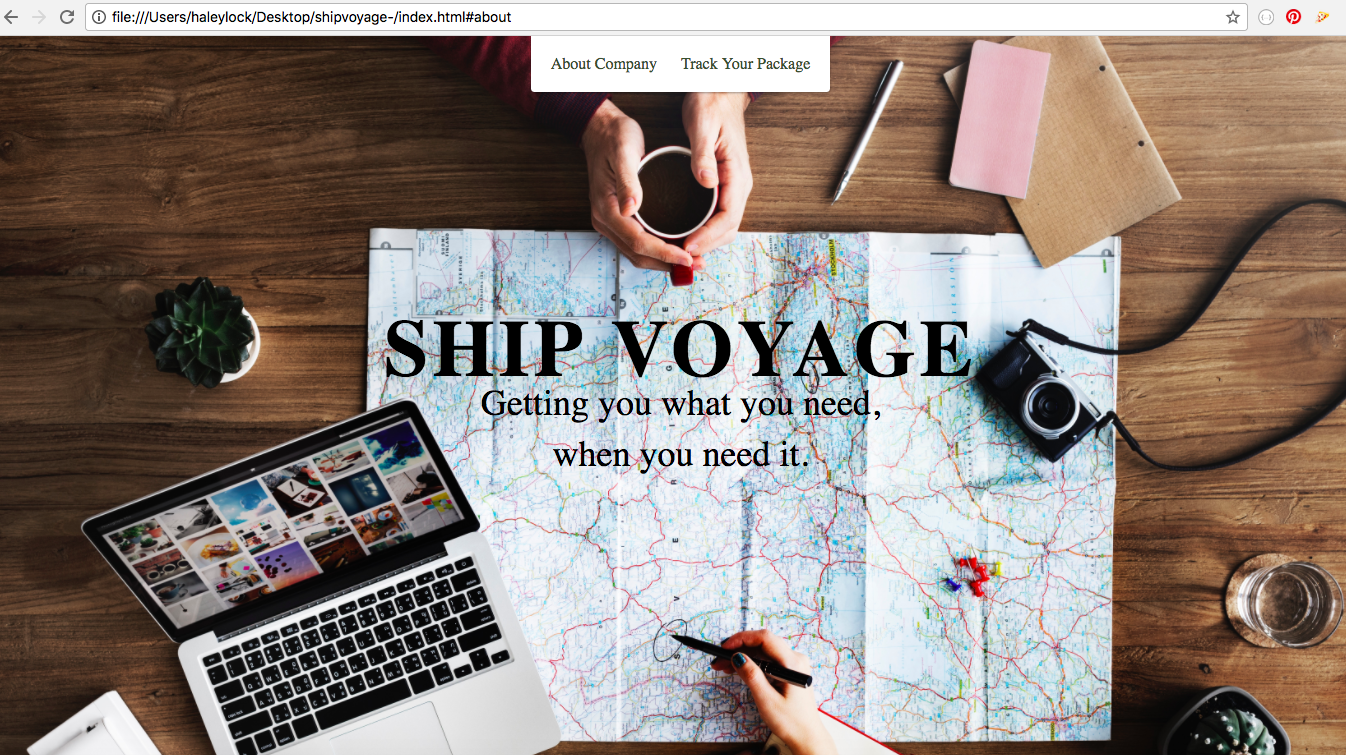
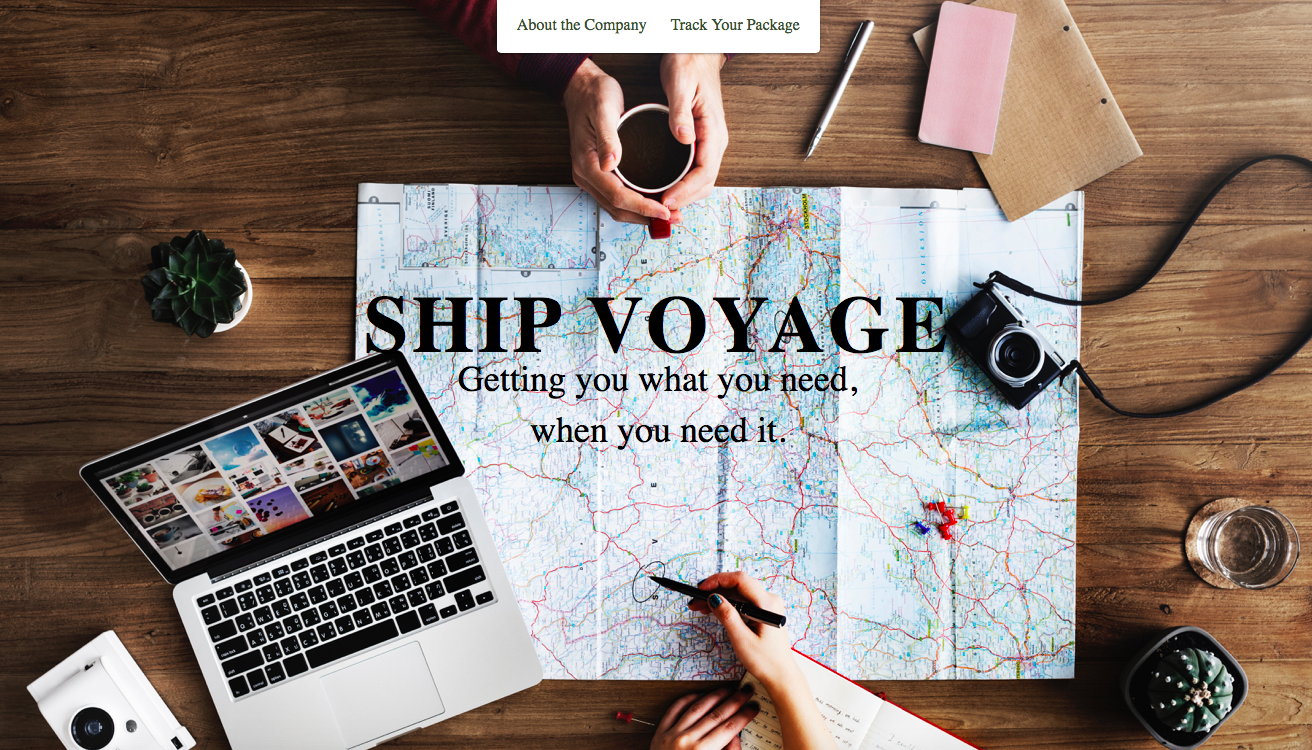
readme

diff --git a/index.html b/index.html
@@ -23,7 +23,7 @@
         </div>
         <ul id="menu" class="shadow">
             <li>
-                <a href="#about">About The Company</a>
+                <a href="#about">About the Company</a>
             </li>
             <li>
                 <a href="#experience">Track Your Package</a>
@@ -48,7 +48,7 @@
             <div class="row">
                 <div class="col-md-12">
 
-                    <h2 class="heading">About The Company</h2>
+                    <h2 class="heading">About the Company</h2>
                 
                 <div class="col-md-12">
                     <p>
